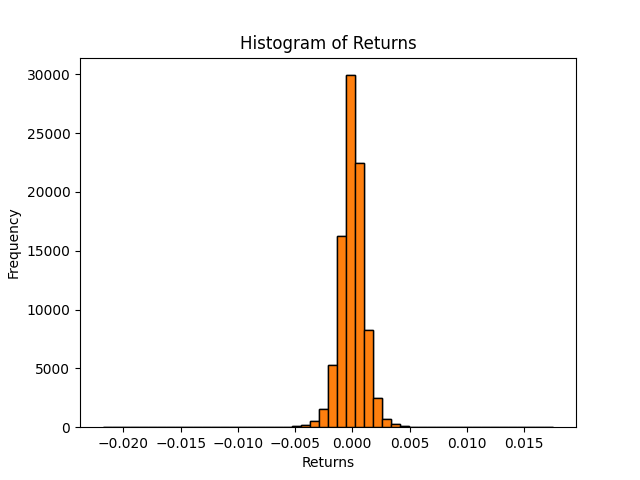
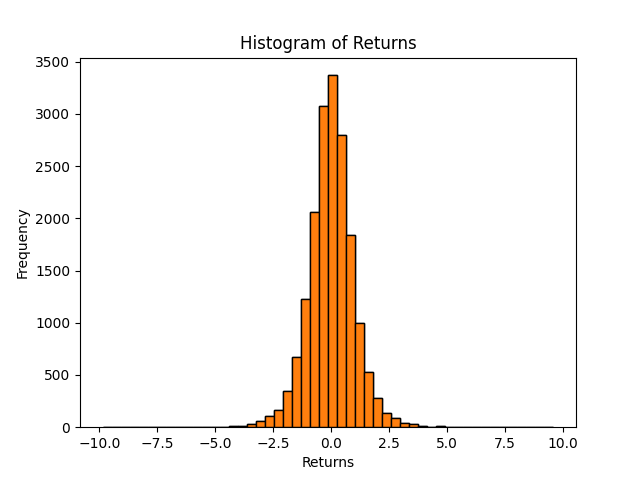
updated

diff --git a/src/assets/forex/train_matrix/barriers.py b/src/assets/forex/train_matrix/barriers.py
@@ -326,14 +326,16 @@ def new_apply_triple_barrier(df, pt_sl, endbar, asset):
    # endbar = endbar + 50
     # Compute rolling daily volatility
     #rolling_window = 72 # Example window size, you can adjust this
-    daily_volatility = df[close].pct_change().rolling(window=endbar).std()
+    daily_volatility = df[close].pct_change().std()
+
+   # print('daily volit:', daily_volatility)
 
     barriers = pd.DataFrame(index=df.index)
     bar_count = 0
     for timestamp, data in df.iterrows():
         bar_count += 1
         price = data[close]
-        volatility = daily_volatility.loc[timestamp]
+        volatility = daily_volatility
 
         upper_barrier = price * (1 + pt_sl[0] * (2*volatility))
         lower_barrier = price * (1 - pt_sl[1] * (2*volatility))
@@ -341,16 +343,16 @@ def new_apply_triple_barrier(df, pt_sl, endbar, asset):
         barriers.at[timestamp, 'upper_barrier'] = upper_barrier
         barriers.at[timestamp, 'lower_barrier'] = lower_barrier
 
-        #t1_date = timestamp + pd.Timedelta(hours=72)
-        #t1_date = min(t1_date, df.index[-1])
+        t1_date = timestamp + pd.Timedelta(hours=72)
+        t1_date = min(t1_date, df.index[-1])
         
-        #barriers.at[timestamp, 't1'] = t1_date
+        barriers.at[timestamp, 't1'] = t1_date
 
         df_temp = df.loc[timestamp:].iloc[1:]
 
 
         try:
-            end_bar = df.iloc[(bar_count + endbar-1)].name
+           # end_bar = df.iloc[(bar_count + endbar-1)].name
 
            # print('endbar!!!!:',end_bar)
            # print('endbartype:',type(end_bar))
@@ -361,12 +363,13 @@ def new_apply_triple_barrier(df, pt_sl, endbar, asset):
             barriers.at[timestamp, 'touch_upper'] = touch_upper
             barriers.at[timestamp, 'touch_lower'] = touch_lower
             
+          #  df['end_bar'] =end_bar
         ####### New LOGIC for barrier touching
             
-            if (touch_upper < touch_lower) and (touch_upper < end_bar):
+            if (touch_upper < touch_lower) and (touch_upper < t1_date):
                 barriers.at[timestamp, 'label'] = 1
 
-            elif (touch_lower < touch_upper) and (touch_lower < end_bar):
+            elif (touch_lower < touch_upper) and (touch_lower < t1_date):
                 barriers.at[timestamp, 'label'] = -1
             
             else:
@@ -438,7 +441,7 @@ def new_apply_triple_barrier_R(df, pt_sl, endbar, asset):
    # endbar = endbar + 50
     # Compute rolling daily volatility
     #rolling_window = 72 # Example window size, you can adjust this
-    daily_volatility = df[close].pct_change().rolling(window=endbar).std()
+    daily_volatility = df[close].pct_change().std()
 ######You dont need rolling volitility you need to use the volitlity of the  total pct change
     barriers = pd.DataFrame(index=df.index)
     bar_count = 0

diff --git a/src/assets/forex/train_matrix/oop_train.py b/src/assets/forex/train_matrix/oop_train.py
@@ -58,7 +58,7 @@ class Analysis:
     def ks_test(self):
         # Standardize the data (mean 0, standard deviation 1)
         #n_ = len(self.bars_df['Close'][500000:])
-        standardized_returns = (self.bars_df['normal_pct_change'][1:] - self.bars_df['Returns'][1:].mean()) / self.bars_df['Returns'][1:].std()
+        standardized_returns = (self.bars_df['normal_pct_change'][1:] - self.bars_df['normal_pct_change'][1:].mean()) / self.bars_df['normal_pct_change'][1:].std()
       #  standardized_returns = (self.bars_df['Returns'][1:] - self.bars_df['Returns'][1:].mean()) / self.bars_df['Returns'][1:].std()
         #standardized_returns = (self.bars_df['Returns'][1:])
         # Perform the KS test against a normal distribution
@@ -66,11 +66,11 @@ class Analysis:
 
         return ks_stat, p_value
     def AD_fuller(self): # Check for Stationary
-        result = adfuller(self.bars_df['Returns'][1:])
+        result = adfuller(self.bars_df['normal_pct_change'][1:])
         return  result
     def plot_histogram(self):
         """Plot a histogram of the 'Returns' data."""
-        plt.hist(self.bars_df['Returns'][1:], bins=50, edgecolor='black')
+        plt.hist(self.bars_df['normal_pct_change'][1:], bins=50, edgecolor='black')
         plt.title('Histogram of Returns')
         plt.xlabel('Returns')
         plt.ylabel('Frequency')
@@ -157,9 +157,9 @@ class Model:
 if __name__ in "__main__":
     
     asset = 'EURUSD'
-    dollar_amount =500000
+    dollar_amount =50000
 
-    lookback = 20
+    lookback = 60
     
     raw= pd.read_csv(f'merged.csv')
     
@@ -184,7 +184,7 @@ if __name__ in "__main__":
     ad.plot_histogram()
    # ad.elbow_()
     print('adfuller:',ad.AD_fuller())
-    '''
+    
    
    
    
@@ -230,10 +230,10 @@ if __name__ in "__main__":
     
     
    # fm.elbow_()
-    '''
-
+    
+    
    # cb = CreateBars(asset,raw, dollar_amount)
-    df =pd.read_csv('test_df.csv')
+   # df =pd.read_csv('test_df.csv')
     lookback =20
     asset='EURUSD'
     fm = FeatureMaker(df, lookback, asset)
@@ -256,6 +256,7 @@ if __name__ in "__main__":
    # df = df.dropna()
     m = Model(filtered_df, asset)
     print(m.train_model())
+    
 
 
 

diff --git a/src/assets/forex/train_matrix/train_models.py b/src/assets/forex/train_matrix/train_models.py
@@ -94,7 +94,7 @@ def ensemble_methods(df, asset, lookback):
     
     
     #feature_cols = ['Daily_Returns', 'Middle_Band', 'Upper_Band', 'Lower_Band', 'Log_Returns', 'MACD', 'Signal_Line_MACD', 'RSI', 'SpreadOC', 'SpreadLH', 'SMI']
-    df =df.drop(['Date','Close','Volume','Date.1', 'upper_barrier', 'lower_barrier'], axis =1)
+    df =df.drop(['Date','Close','Volume', 'upper_barrier', 'lower_barrier', 'pct_change', 't1'], axis =1)
 
     
     
@@ -136,6 +136,8 @@ def ensemble_methods(df, asset, lookback):
         
     train_data =   train_datasets[-1]
 
+    print('train_dataset', len(train_data))
+
     test_data = test_datasets[-1]
 
   
@@ -170,12 +172,12 @@ def ensemble_methods(df, asset, lookback):
 
     # Initialize GridSearchCV
     #clf = SVC(probability=True, C=50)
-   # clf =RandomForestClassifier( random_state=44, n_estimators=1000,criterion='gini')
+    clf =RandomForestClassifier( random_state=44, n_estimators=1000,criterion='gini')
     
     
     
     
-    clf = HistGradientBoostingClassifier()
+   # clf = HistGradientBoostingClassifier()
 
    
     clf.fit(X_train, y_train)
@@ -270,7 +272,17 @@ def ensemble_methods(df, asset, lookback):
     all_preds.extend(y_pred.tolist())
     print('###########################')
     #log_loss(y_test, y_pred)
-    l_l = log_loss(y_test, probas)
+
+    classes = np.unique(y_train)
+
+# Compute log loss
+    l_l = log_loss(y_test, probas, labels=classes)
+
+
+
+
+
+    #l_l = log_loss(y_test, probas)
     print('logloss', l_l)  
 
 
@@ -303,7 +315,7 @@ def Hist_boosted(df, asset, lookback):
 
     print('input dataframe:',df.columns)
 
-    df = df.drop(['Date','Date.1', 'upper_barrier', 'lower_barrier'], axis =1)
+    df = df.drop(['Date', 'upper_barrier', 'lower_barrier','pct_change'], axis =1)
 
     X = df.drop('label',axis=1)
     y = df['label']

diff --git a/src/assets/forex/train_matrix/CUMSUM_filter.py b/src/assets/forex/train_matrix/CUMSUM_filter.py
@@ -2,12 +2,12 @@ import pandas as pd
 
 def gTEvents(gRaw, h=None):
 
-    h = gRaw['Returns'].std()
+    h = gRaw['Close'].pct_change().std()
     tEvents,sPos,sNeg = [],0,0
     diff = gRaw
     
     for idx, i in diff.iterrows():
-        sPos, sNeg = max(0, sPos + i['Returns']), min(0, sNeg + i['Returns'])
+        sPos, sNeg = max(0, sPos + i['pct_change']), min(0, sNeg + i['pct_change'])
         if sNeg < -h:
             sNeg = 0
             tEvents.append(idx)
